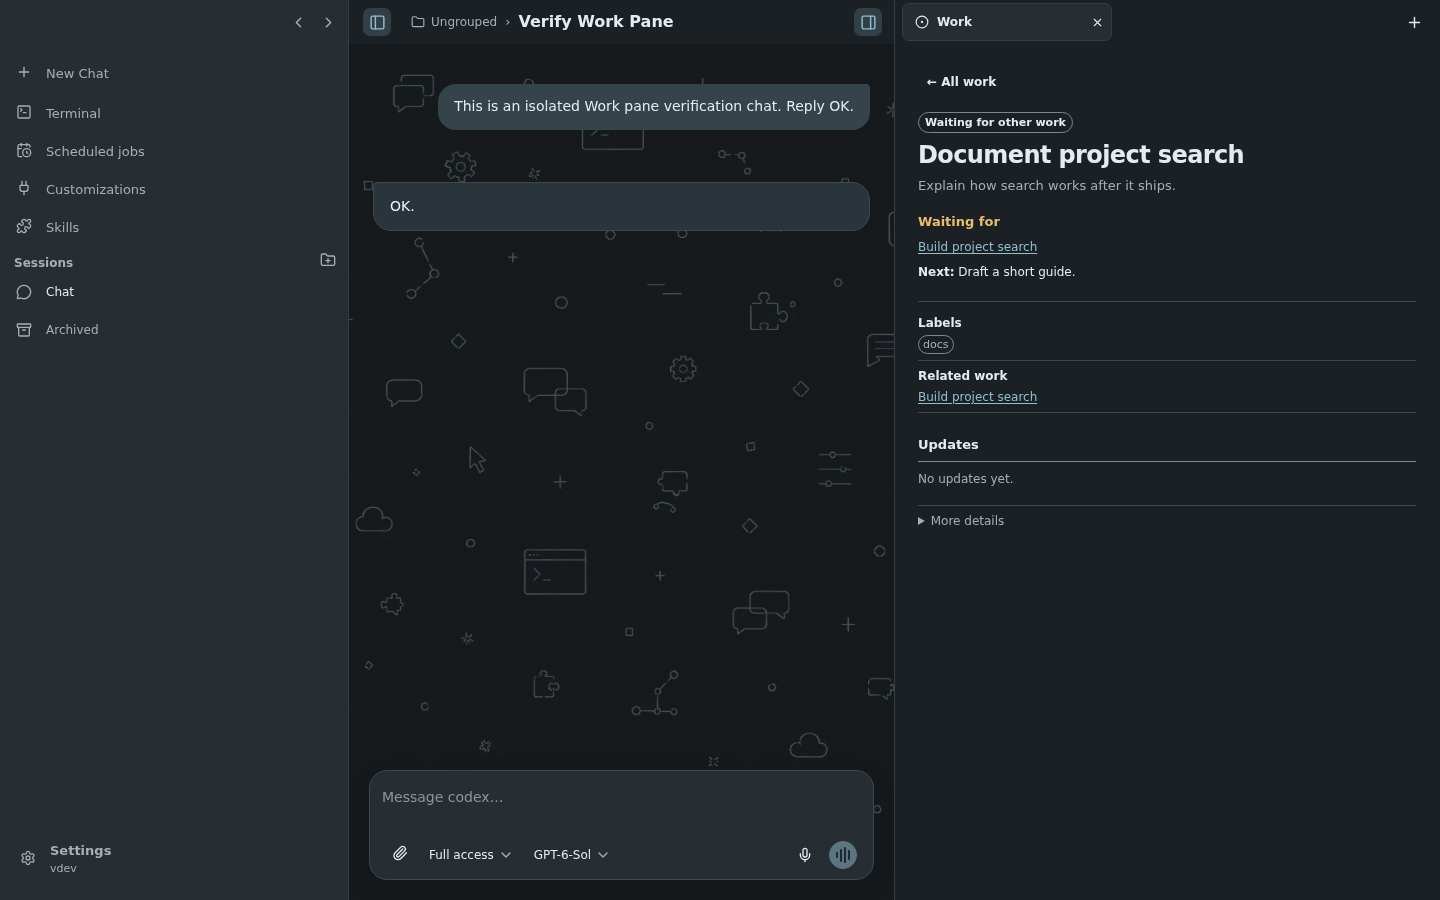
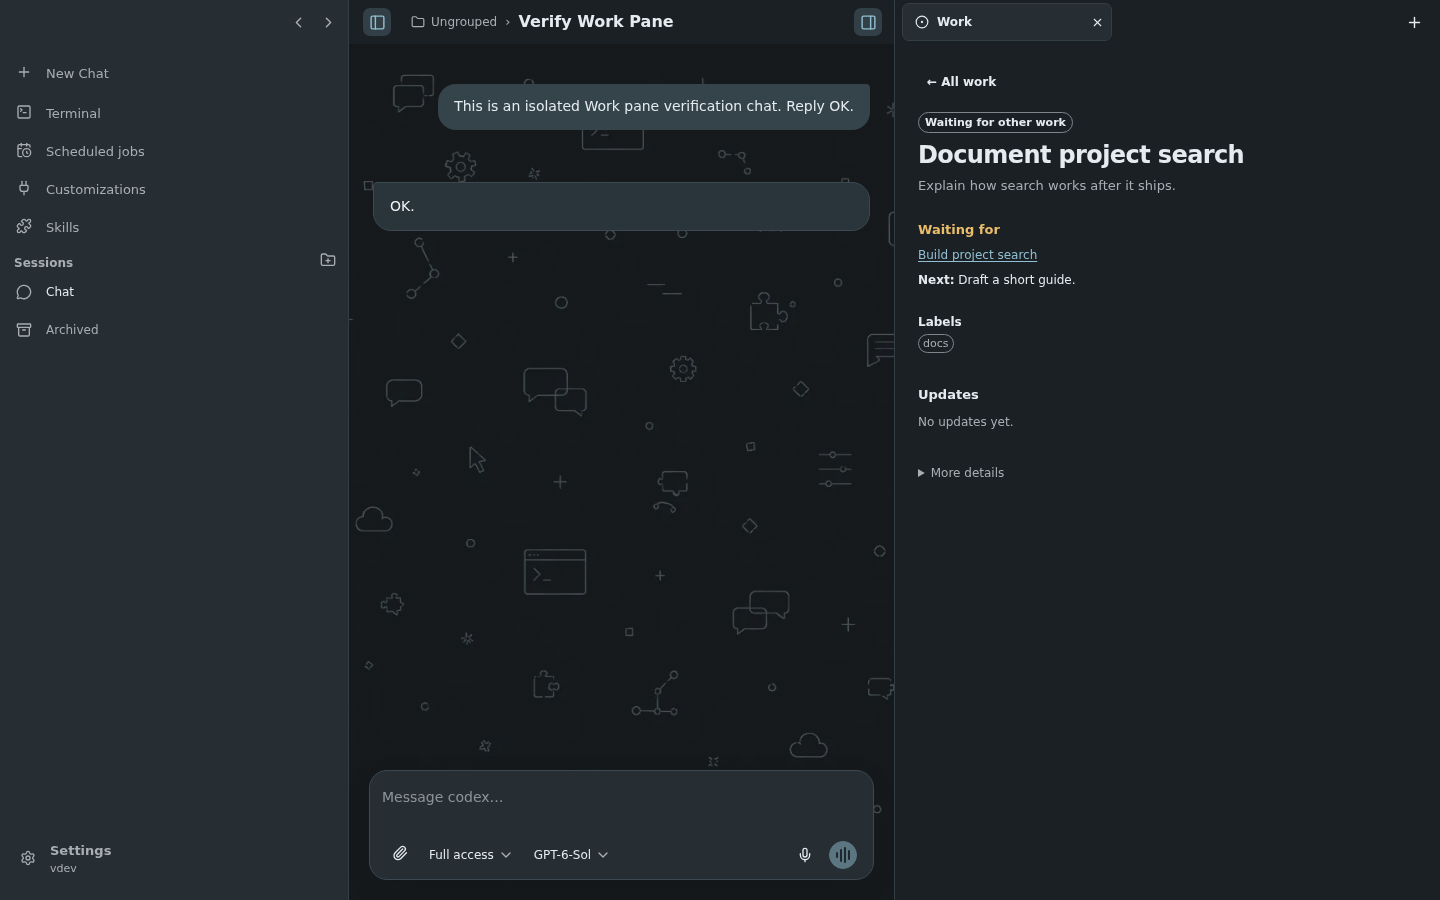
Quiet Work detail separators

Changed region(s): [[0.625, 0.3422, 0.7188, 0.5911], [0.625, 0.2178, 0.75, 0.3422]]

diff --git a/web/src/components/mux-chat-coordination.ts b/web/src/components/mux-chat-coordination.ts
@@ -82,33 +82,31 @@ export class MuxChatCoordination extends LitElement {
     .state-pill { display:inline-flex; align-items:center; border:1px solid var(--ui-border-strong); border-radius:999px; padding:1px var(--ui-space-3); color:var(--ui-text); font-size:var(--ui-text-xs); font-weight:650; }
     .state-pill.attention { border-color:var(--ui-danger); color:var(--ui-danger); }
     .state-pill.active,.state-pill.ready { border-color:var(--ui-accent); color:var(--ui-accent); }
-    .detail-grid { display:grid; grid-template-columns:1fr; gap:var(--ui-space-5); align-items:start; margin-top:var(--ui-space-6); }
+    .detail-grid { display:grid; grid-template-columns:1fr; gap:var(--ui-space-8); align-items:start; margin-top:var(--ui-space-8); }
     .detail-main { min-width:0; }
-    .situation { padding:0 0 var(--ui-space-7); border-bottom:1px solid var(--ui-border); }
     .situation h3 { margin-bottom:var(--ui-space-3); color:var(--ui-accent); }
     .situation.attention h3 { color:var(--ui-danger); }
     .situation.waiting h3,.situation.review h3 { color:var(--ui-warning); }
     .situation p + p { margin-top:var(--ui-space-3); }
-    .detail-section { padding-bottom:var(--ui-space-5); margin-bottom:var(--ui-space-5); border-bottom:1px solid var(--ui-border); }
+    .detail-section { margin-bottom:var(--ui-space-7); }
     .detail-section p { margin-top:var(--ui-space-2); white-space:pre-wrap; overflow-wrap:anywhere; }
     .detail-section h3,.side-section h3 { font-size:var(--ui-text-sm); font-weight:650; }
-    .detail-side { min-width:0; }
-    .side-section { padding-bottom:var(--ui-space-3); margin-bottom:var(--ui-space-3); border-bottom:1px solid var(--ui-border); }
+    .detail-side { display:grid; grid-template-columns:repeat(auto-fit,minmax(150px,1fr)); gap:var(--ui-space-7) var(--ui-space-8); min-width:0; }
     .side-section p { margin-top:var(--ui-space-1); overflow-wrap:anywhere; }
     .chip { display:inline-block; border:1px solid var(--ui-border-strong); border-radius:999px; padding:0 var(--ui-space-2); color:var(--ui-text-muted); font-size:var(--ui-text-xs); }
-    .activity { margin-top:var(--ui-space-6); }
-    .activity h3 { padding-bottom:var(--ui-space-3); border-bottom:1px solid var(--ui-border-strong); }
-    .entry { border-bottom:1px solid var(--ui-border); padding:var(--ui-space-4) 0; }
+    .activity { margin-top:var(--ui-space-9); }
+    .entry { padding:var(--ui-space-5) 0; }
+    .entry + .entry { margin-top:var(--ui-space-3); }
     .entry p { margin-top:var(--ui-space-2); white-space:pre-wrap; overflow-wrap:anywhere; }
-    .more-details { margin-top:var(--ui-space-6); padding-top:var(--ui-space-3); border-top:1px solid var(--ui-border); }
+    .more-details { margin-top:var(--ui-space-9); }
     .more-details summary { color:var(--ui-text-muted); cursor:pointer; }
     .more-details summary:hover { color:var(--ui-text); }
     .more-details dl { display:grid; grid-template-columns:max-content minmax(0,1fr); gap:var(--ui-space-2) var(--ui-space-4); margin:var(--ui-space-4) 0 0; font-size:var(--ui-text-xs); overflow-wrap:anywhere; }
     .more-details dt { color:var(--ui-text-muted); }
     .more-details dd { margin:0; min-width:0; }
     .error { color:var(--ui-danger); margin:var(--ui-space-3) 0; }
-    @container (min-width:760px) { .detail-grid { grid-template-columns:minmax(0,1fr) 220px; gap:var(--ui-space-8); } }
-    @container (max-width:430px) { .wrap { padding:var(--ui-space-7); } .work-open::part(button) { padding:var(--ui-space-6); } }
+    @container (min-width:760px) { .detail-grid { grid-template-columns:minmax(0,1fr) 220px; gap:var(--ui-space-8); } .detail-side { grid-template-columns:1fr; } }
+    @container (max-width:430px) { .wrap { padding:var(--ui-space-7); } .work-open::part(button) { padding:var(--ui-space-6); } .detail-side { grid-template-columns:1fr; } }
   `;
 
   override connectedCallback() {
@@ -244,6 +242,7 @@ export class MuxChatCoordination extends LitElement {
     if (!item) return nothing;
     const updates = [...(item.updates || [])].reverse();
     const lane = this.queueLane(item);
+    const relatedIds = item.dependsOn?.filter(id => !item.waitingOn?.includes(id)) || [];
     const dispatchNeedsCheck = item.dispatch?.state === 'failed' || item.dispatch?.state === 'uncertain';
     const situationTitle = item.status === 'blocked' || dispatchNeedsCheck ? 'Needs attention' : item.waitingOn?.length ? 'Waiting for' : item.status === 'done' ? 'Result' : item.status === 'review' ? 'Ready for review' : item.progress ? 'Latest progress' : item.status === 'open' && !item.ownerSessionId ? 'Ready for a chat to pick up' : 'What’s happening';
     return html`<div class="detail-head"><mux-ui-button size="small" variant="quiet" @click=${() => { this.detail=undefined; this.scrollTop=0; }}>← All work</mux-ui-button></div>
@@ -260,7 +259,7 @@ export class MuxChatCoordination extends LitElement {
           ${item.dispatch ? html`<section class="side-section"><h3>Start</h3><p>${this.dispatchLabel(item)}</p></section>` : nothing}
           ${item.projectIds?.length ? html`<section class="side-section"><h3>Project</h3><p>${this.projectNames(item)}</p></section>` : nothing}
           ${item.labels?.length ? html`<section class="side-section"><h3>Labels</h3><p>${item.labels.map(label => html`<span class="chip">${label}</span>`)}</p></section>` : nothing}
-          ${item.dependsOn?.length ? html`<section class="side-section"><h3>Related work</h3><p>${this.dependencyLinks(item.dependsOn)}</p></section>` : nothing}
+          ${relatedIds.length ? html`<section class="side-section"><h3>Related work</h3><p>${this.dependencyLinks(relatedIds)}</p></section>` : nothing}
         </aside></div>
       <section class="activity"><h3>Updates</h3>${updates.length ? updates.map(update => html`<div class="entry"><div class="meta">${this.actorLabel(update.actor, update.sessionId)} · ${this.date(update.at)}${update.status ? ` · ${this.statusName(update.status)}` : ''}</div><p>${update.text || update.progress || update.outcome || (update.ownerSessionId !== undefined ? html`Working on it: ${update.ownerSessionId ? this.chatLink(update.ownerSessionId) : 'No chat assigned'}` : update.reviewerSessionId !== undefined ? html`Reviewing: ${update.reviewerSessionId ? this.chatLink(update.reviewerSessionId) : 'No reviewer assigned'}` : update.dependsOn !== undefined ? html`Related work: ${update.dependsOn.length ? this.dependencyLinks(update.dependsOn) : 'Cleared'}` : update.labels !== undefined ? `Labels: ${update.labels.length ? update.labels.join(', ') : 'Cleared'}` : update.nextAction !== undefined ? `Next: ${update.nextAction || 'Cleared'}` : update.blockedReason ? update.blockedReason : update.linkedSessionId ? html`Linked ${this.chatLink(update.linkedSessionId)}` : update.status ? this.statusName(update.status) : 'Update recorded')}</p>${update.evidence?.length ? html`<p class="meta">Evidence: ${update.evidence.join(', ')}</p>` : nothing}</div>`) : html`<p class="muted" style="margin-top:var(--ui-space-4)">No updates yet.</p>`}</section>
       <details class="more-details"><summary>More details</summary><dl><dt>Work ID</dt><dd>${item.id}</dd><dt>Revision</dt><dd>${item.revision}</dd><dt>Added by</dt><dd>${this.creatorLabel(item)}</dd><dt>Added</dt><dd>${this.date(item.createdAt)}</dd><dt>Last updated</dt><dd>${this.date(item.updatedAt)}</dd>${item.sessionIds?.length ? html`<dt>Linked chats</dt><dd>${item.sessionIds.map((id,index) => html`${index ? ', ' : ''}${this.chatLink(id)}`)}</dd>` : nothing}</dl></details>`;
